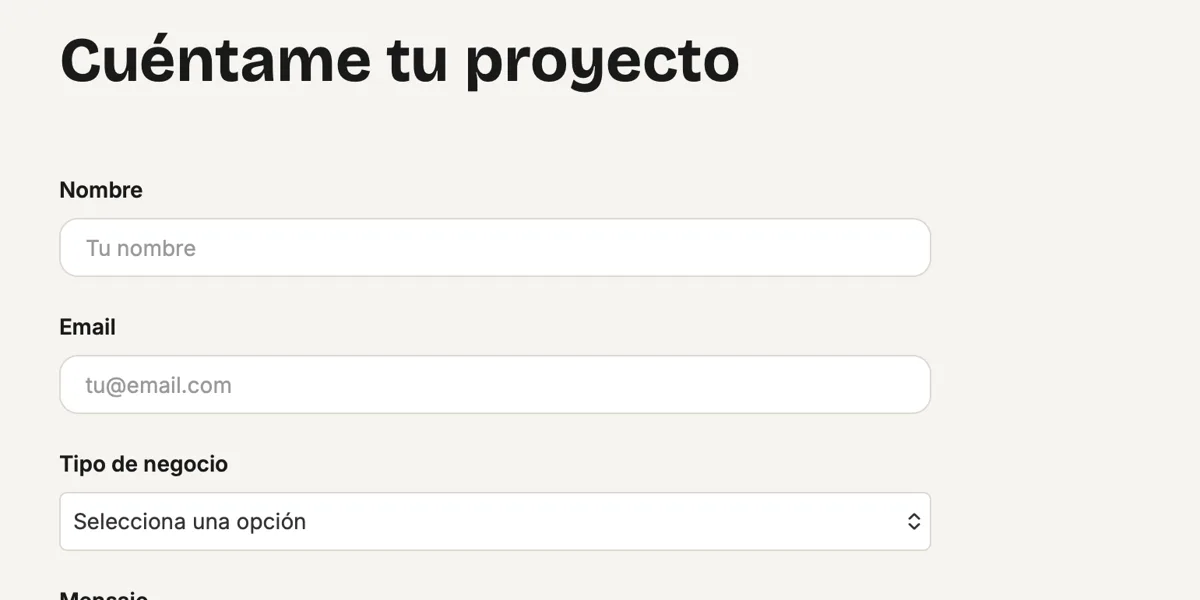
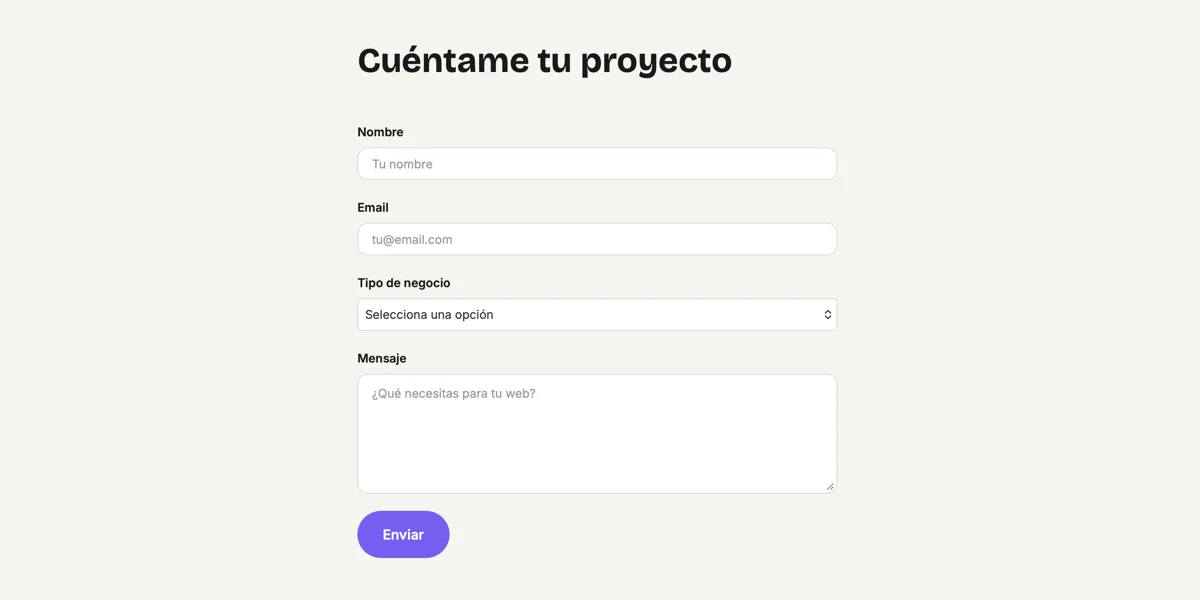
feat: reencuadra las capturas de Valia y mejora las descripciones de proyectos y Sobre mí

diff --git a/src/data/projects.js b/src/data/projects.js
@@ -5,8 +5,8 @@ export const projects = [
     label: "Landing en Webflow · Proyecto personal",
     description:
       "Proyecto de práctica para aprender Webflow: la landing de una marca de diseño web para negocios locales, orientada a conversión. Todo lleva al formulario de presupuesto.",
-    role: "Diseño y maquetación completos: variables de color, clases reutilizables, responsive y formulario funcional.",
-    tech: ["Webflow", "Responsive", "Diseño UI"],
+    role: "Diseño y maquetación completos en Webflow. Definí un sistema de diseño con variables de color y clases reutilizables (incluidas combo classes), estructuré la página con HTML semántico y una jerarquía de encabezados correcta, y la adapté a escritorio, tablet y móvil con breakpoints. El formulario de contacto valida los campos, envía notificaciones por email y tiene estados de éxito y error personalizados. También configuré el SEO básico: título y meta descripción.",
+    tech: ["Webflow", "Diseño UI", "Responsive", "HTML semántico", "SEO"],
     url: "https://valia-web.webflow.io",
     images: [
       "/projects/valia-hero.webp",
@@ -52,8 +52,8 @@ export const projects = [
     title: "Sala Onírica",
     label: "Proyecto individual · Ciclo DAW",
     description:
-      "Plataforma de venta de entradas con selección de asientos en tiempo real. Si dos personas pulsan el mismo asiento a la vez, solo una se lo queda: nunca se vende dos veces.",
-    role: "Todo, de principio a fin: requisitos, arquitectura, frontend, dos backends, tests e infraestructura.",
+      "Plataforma de venta de entradas con selección de asientos en tiempo real mediante WebSockets. Las reservas se gestionan con transacciones y bloqueo pesimista en base de datos, lo que evita la doble venta ante accesos concurrentes, y los asientos retenidos se liberan automáticamente al expirar el tiempo de reserva.",
+    role: "Desarrollo completo en solitario: análisis de requisitos, arquitectura, frontend, dos backends, testing e infraestructura.",
     tech: [
       "Nuxt 3",
       "Vue 3",
@@ -79,7 +79,7 @@ export const projects = [
     title: "The Lost Word",
     label: "Proyecto grupal · Ciclo DAW",
     description:
-      "Juego multijugador de mecanografía en tiempo real: escribe rápido y con precisión para sobrevivir.",
+      "Juego multijugador de mecanografía en tiempo real sobre WebSockets: salas con idioma y dificultad configurables, progreso de cada jugador sincronizado en directo y eliminación periódica del último clasificado. Al terminar, muestra una clasificación con palabras por minuto, precisión y errores.",
     tech: ["Vue 3", "Tailwind CSS", "Node.js", "Express", "Socket.IO", "MySQL"],
     role: "Diseñé e implementé la interfaz de todas las pantallas con Tailwind CSS, incluidos los efectos visuales y las animaciones. En el backend desarrollé el sistema de salas múltiples con Socket.IO y la sincronización del temporizador entre servidor y cliente.",
     repo: "https://github.com/valeriazv99/the-lost-word-game",

diff --git a/src/components/AboutSection.vue b/src/components/AboutSection.vue
@@ -11,12 +11,15 @@
         necesita la persona que tengo delante.
       </p>
       <p>
-        Ahora lo aplico a lo que de verdad me gusta: construir webs. En el ciclo
-        he trabajado tanto en front como en back, y en mi proyecto final propuse
-        la idea y el stack, y coordiné al equipo.
+        Ahora lo aplico a lo que de verdad me gusta: construir webs. Me muevo
+        entre front y back, pero donde más disfruto es en la interfaz: cuidar
+        los detalles para que quien la use no tenga que pensar. Y cuando un
+        proyecto pide una herramienta nueva, me pongo a aprenderla.
       </p>
       <p>
         Busco un equipo donde seguir aprendiendo y aportar desde el primer día.
+        Estoy en Barcelona, con disponibilidad para empezar ya, en remoto,
+        híbrido o presencial.
       </p>
     </div>
   </section>
